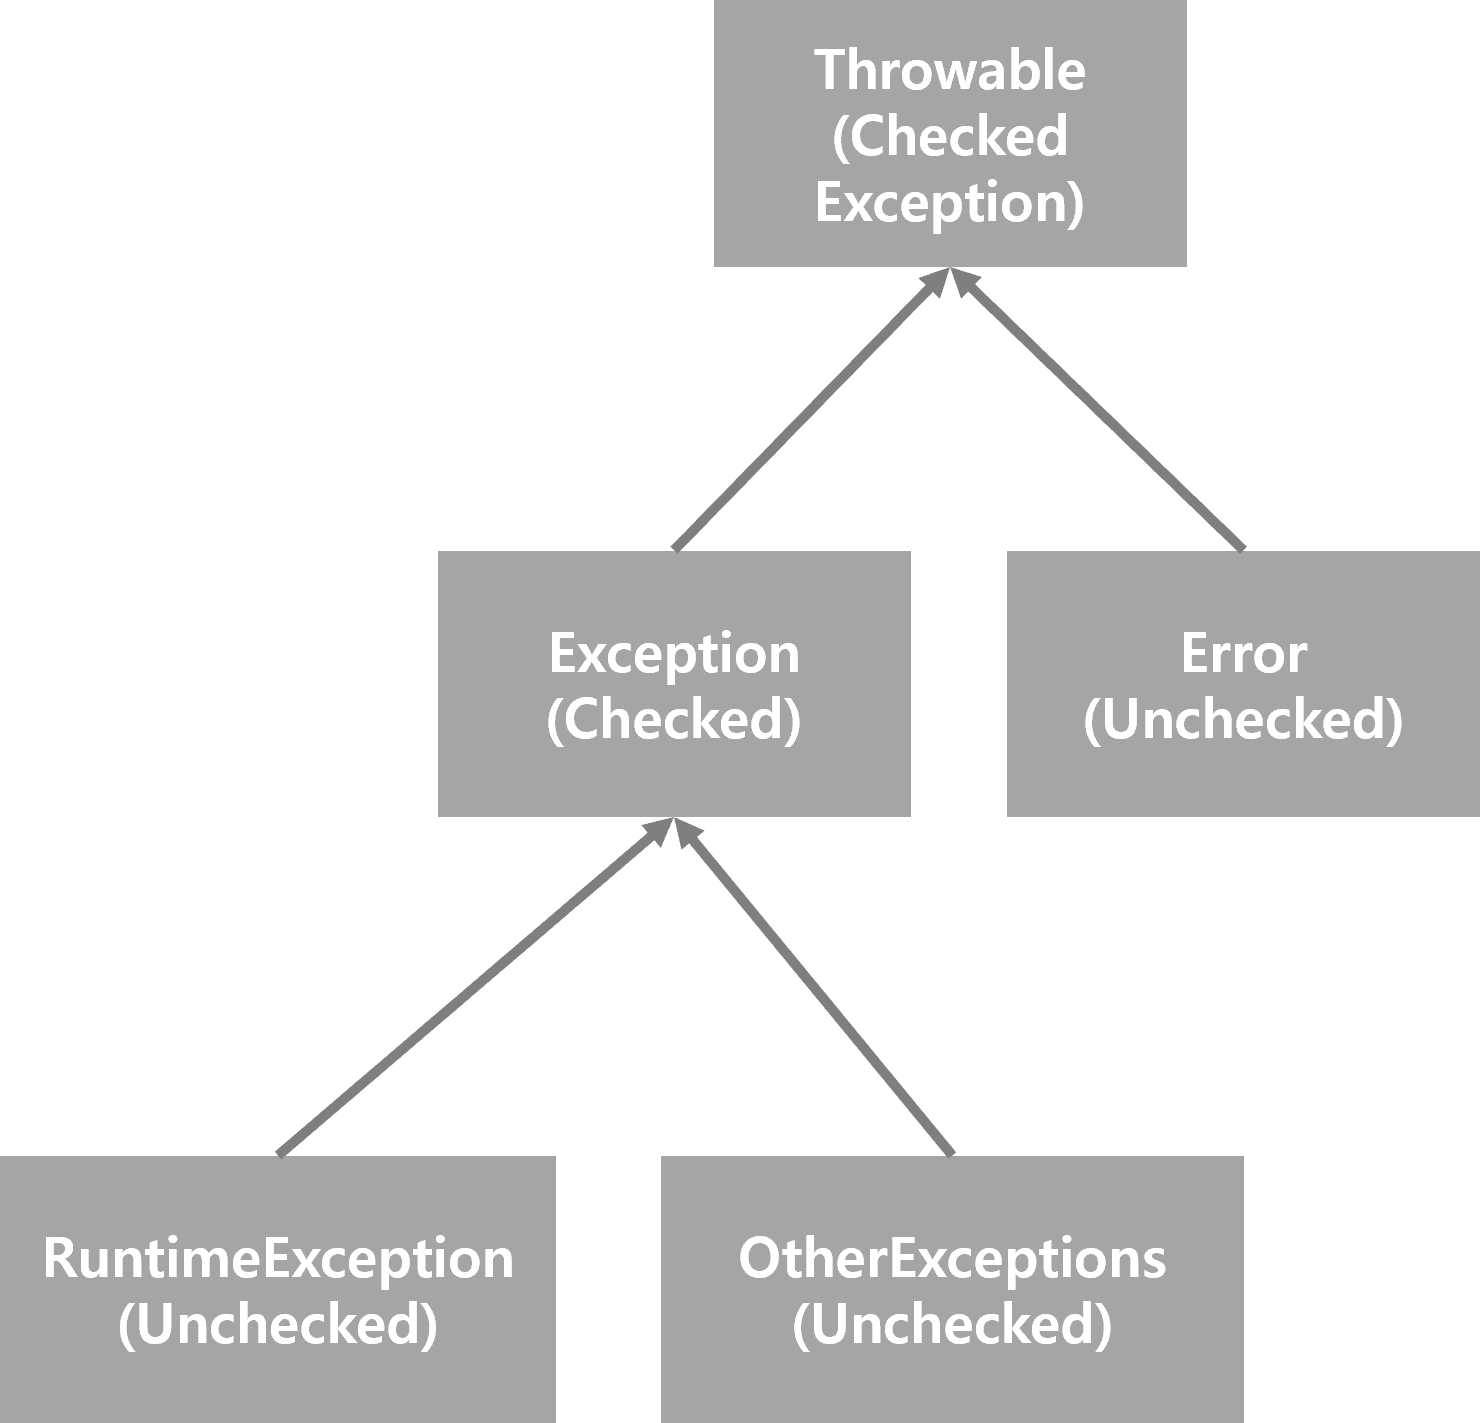
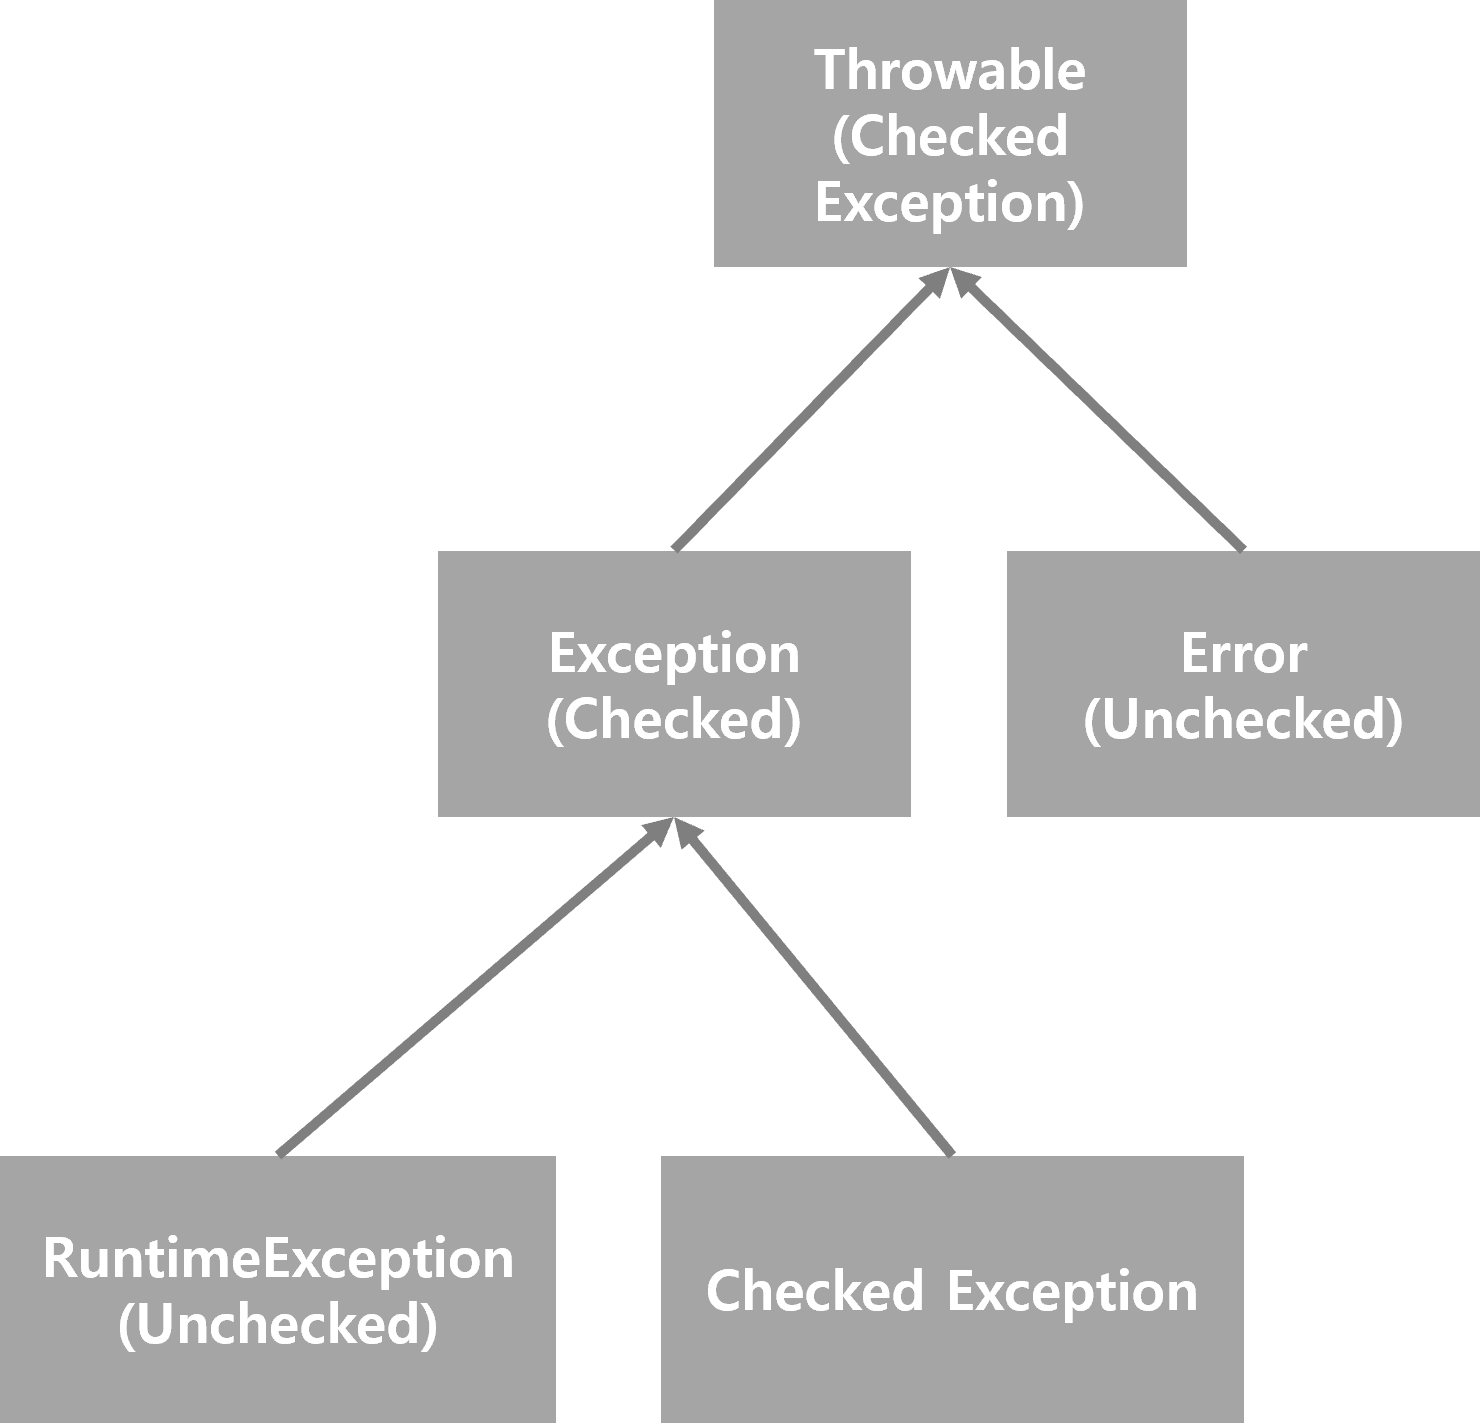
ITEM 70 - Checked Exception, Unchecked Exception 예제 및 설명, 그림 수정

Changed region(s): [[0.4662, 0.8658, 0.8081, 0.9585]]

diff --git a/ITEM-70-복구할-수-있는-상황에는-검사-예외를,-프로그래밍-오류에는-런타임-예외를-사용하라.md b/ITEM-70-복구할-수-있는-상황에는-검사-예외를,-프로그래밍-오류에는-런타임-예외를-사용하라.md
@@ -1,10 +1,11 @@
-# Item 70. 복구할 수 있는 상황에는 검사 예외를, 프로그래밍 오류에는 런타임 예외를 사용하라
-
-> 개인적으로 자바 문법에서 예외 처리에 대해서 가장 취약한 편이다 ㅠㅠ 기본기가 가끔씩 부족하다고 스스로 가끔 느끼는 편이었는데, 이번 기회에 예외처리에 관해서 확실하게 정리하고 간다는 점에서 다행이라는 생각이 든다.<br>
+# ITEM 70. 복구할 수 있는 상황에는 검사 예외를, 프로그래밍 오류에는 런타임 예외를 사용하라
 
 <br>
 
 ## 참고한 자료들
+
+- [한달한권 - 이펙티브 자바](https://zero-base.co.kr/category_dev_camp/java_1book)
+  - 매우 좋은 강의다!! 바쁘다는 핑계로 안듣고 있는 챕터가 꽤 있다. 시간 내서 다 들어야지. 
 
 - [hbase.tistory.com/115](https://hbase.tistory.com/115)
 - [docs.oracle.com - RuntimeException](https://docs.oracle.com/javase/7/docs/api/java/lang/RuntimeException.html)
@@ -31,18 +32,132 @@
 
 <br>
 
-- `Checked Exception`
-  - 반드시 코드에서 처리해야 하는 예외다.
-  - Checked Exception 은 try ~ cactch 로 예외처리를 하거나 throw 구문으로 상위 메서드에게 예외를 throw 해야 한다.
-  - Checked Exception 을 처리하지 않으면 자바 컴파일러가 컴파일 단계에서 컴파일에러를 발생시켜 예외에 대한 처리를 하게끔 유도한다.
-  - RutimeException 및 Exception 을 상속받은 기타 클래스들은 대부분 Checked Exception 은 아니다.
-  - 쉽게 설명하면, 직접 작성한 메서드에 `throws Exception` 을 명시했다면, 해당 메서드를 호출 하는 caller 측에서는 `try~catch`, `throw` 등의 처리를 해줘야 한다. `try~catch`, `throw` 등의 처리를 하지 않으면 컴파일 에러가 발생한다.
-  - 예외 처리를 컴파일 레벨에서 강제하기 위해 사용되기도 한다.
-- `Unchecked Exception`
-  - 컴파일 타임에 체크되지 않는 다소 느슨한 예외다.
-  - try~catch, throw 로 예외 처리를 별도로 하지 않더라도 컴파일 상에는 문제가 되지 않는다.
-  - 예를 들면, `RuntimeException` 을 상속받은 `NullPointerException` , `IndexOutOfBoundException` 등과 같은  클래스가 있다.
-  - 즉, 직접 작성한 메서드에 `throws new RuntimeException()` 을 명시했다면, 해당 메서드를 호출 하는 caller 측에서는 try~catch, throw 등의 처리를 꼭 해주지 않아도 컴파일 에러가 발생하지 않는다.
+### Checked Exception
+
+- 반드시 코드에서 처리해야 하는 예외다. 명시적으로 예외처리를 해야 한다.
+- Checked Exception 은 `try ~ catch` 로 예외를 처리하거나, `throw` 하지 않으면,  컴파일 에러가 발생한다.
+- Checked Exception 은 Transaction이 Rollback 된다.
+  - `Checked Exception` 은 해당 `Exception` 이 `throw` 된 것을 `try ~ catch` 로 처리하면 rollback은 이뤄지지 않는다.<br>
+  - 말로 설명하니 이상하다. 코드는 역시 코드로 배우는게 맞기는 할때가 있는가보다. 문서 최 하단 부에 Transaction 예제도 정리해놓을 예정이다.
+- ex) `FileNotFoundException` 
+- 예외 처리를 컴파일 레벨에서 강제하기 위해 사용되기도 한다.
+- RutimeException 및 Exception 을 상속받은 기타 클래스들은 대부분 Checked Exception 은 아니다.
+
+코드를 말로 설명하는 것은 역시 재미가 없고, 외계어 같다. 코드로 예를 들어 정리해봐야 겠다.<br>
+
+<br>
+
+**예제 1) Checked Exception 을 던지는 메서드를 그냥 사용하는 경우** <br>
+
+예를 들어 아래와 같은 코드가 있다고 해보자. `Checked Exception` 타입인 `Exception` 을 상속받아 확장한 클래스 `HelloCheckedException` 이 있다. <br>
+
+그리고 `helloKorea(String countryCode)` 라는 메서드에서는 인자 값 `String countryCode` 가 "KR" 이 아닐 경우 `HelloCheckedException` 이라는 예외를 던지고 있다.<br>
+
+![.](./img/ITEM70/CHECKED_EXCEPTION_1.png)
+
+위 코드에서 `test1`  이라는 메서드에서는 `helloKorea("KR")` 로 메서드를 호출하고 있다. 그런데, 예외가 발생하지 않을 수도 있는 경우에서 예외를 추가하도록 컴파일 레벨에서 미리 강제하고 있다.<br>
+
+<br>
+
+**예제 2) `Checked Exception` 이 발생하는 메서드를 한단계 감싸고, 해당 메서드에서 try/catch 처리를 해서 호출해보기**<br>
+
+예외를 던지는 메서드인 `helloKorea(String countryCode)` 메서드를 `caller1()` 라는 메서드에서 호출하도록 구조를 바꿨다. 그리고 `caller1()` 메서드는 메서드 `test2()` 에서 try/catch 블록 없이 그냥 호출해도 **"컴파일 에러"**가 발생하지 않는다.<br>
+
+![.](./img/ITEM70/CHECKED_EXCEPTION_2.png)
+
+<br>
+
+**예제3) try/catch 처리를 한 경우 다음 라인을 수행하는지 확인**<br>
+
+이번에는 Checked Exception 을 내는 예외를 감싼 메서드`caller2()` 에서 예외가 발생했을 때 그 다음 라인을 수행하는지 확인해보자. Checked Exception 을 발생시켜도, 해당 예외 라인을 try/catch 처리를 하면 다음라인으로 계속 진행할 수 있다.
+
+![.](./img/ITEM70/CHECKED_EXCEPTION_3.png)
+
+<br>
+
+출력결과<br>
+
+출력결과는 아래와 같다. 예외가 발생한 곳의 예외 메시지와 catch 구문에 해둔 예외 처리시 동작을 수행하고 그다음 라인 처리를 수행을 이어서 수행한다.
+
+![.](./img/ITEM70/CHECKED_EXCEPTION_4.png)
+
+<br>
+
+### UnChecked Exception
+
+- 명시적인 예외처리가 강제되는 `Exception` 은 아니다.
+- 컴파일 타임에 체크되지 않는 다소 느슨한 예외다.
+- try/catch, throw 등으로 예외 처리를 별도로 하지 않더라도 컴파일 상에는 문제가 되지 않는다.
+- 런타임시에 에러 스택트레이스 출력 및 별도의 프로그래밍 처리로 에러가 발생했음을 감지할 수 있다.
+
+- ex) `RuntimeException`, `NullPointerException`<br>
+
+역시 한국말로 어떻게 설명해보려 했지만, 조금 더 설명을 추가할 수록 이상한 말이 되어버려서 예제로 정리하기로 했다.<br>
+
+<br>
+
+**예제 1) RuntimeException 을 throw 하는 메서드를 try/catch 없이 그냥 호출해보는 예제**<br>
+
+코드는 아래와 같이 작성했다. 메서드 `test1()` 에서 메서드 `helloMessage("US")` 를 별도의 try/catch 에서 호출하지 않았음에도 컴파일에러가 발생하지 않았다. 출력결과 역시 정상이다. 
+
+![.](./img/ITEM70/UNCHECKED_EXCEPTION_1.png)
+
+<br>
+
+출력결과
+
+```plain
+안녕하세요
+```
+
+<br>
+
+**예제 2) RuntimeException 을 내는 메서드를 try/catch 블록으로 감싸 처리하는 예**<br>
+
+try/catch 로 예외가 발생하는 라인을 감싸고 그 다음 라인을 수행하는지 명시적으로 확인하기 위해 `System.out.println` 이용해 0, 1, 2 를 찍어봤다. 출력구문을 보고 동작을 확인하자.
+
+![.](./img/ITEM70/UNCHECKED_EXCEPTION_2.png)
+
+<br>
+
+출력결과
+
+![.](./img/ITEM70/UNCHECKED_EXCEPTION_2_1.png)
+
+출력결과를 자세히 보면 `e.printStackTrace()` 로 출력한 에러를 출력해주고, try/catch 블록의 그 다음 라인을 순차적으로 실행하고 있는 것을 확인할 수 있다.(`(2)` 가 콘솔에 출력됐다.)<br>
+
+즉, 에러가 난 곳에서 탈출하지 않고, 에러를 출력하거나 catch 구문에 지정한 메서드를 수행하도록 하고, try/catch 다음 라인을 계속해서 순차적으로 실행한다.<br>
+
+<br>
+
+### Checked Exception, UnChecked Exception 정리
+
+**Checked Exception**<br>
+
+- Checked Exception 은 컴파일 타임에 try/catch 블록으로 처리를 명시적으로 하지 않으면 컴파일 에러를 낸다. (또는 throw 로 예외를 전파하지 않아도 컴파일 에러를 낸다.) 대표적으로 `FileNotFoundException` 이 있다.
+- Checked Exception 이 발생하면 Transaction 은 rollback 된다.
+  - 단, throw 된 Checked Exception 을 별도의 try/catch 로 처리를 하면, rollback 은 이뤄지지 않는다.
+- ex) `FileNotFoundException` 
+
+<br>
+
+**Unchecked Exception**<br>
+
+- Unchecked Exception 은 컴파일 타임에 try/catch 블록으로 처리를 명시적으로 하지 않아도 컴파일 에러는 발생하지 않는다. 대표적으로 `NullPointerException`, `RuntimeException` 이 있다.
+-  Unchecked Exception 이 발생하더라도 Transaction 은 rollback 되지 않는다.
+- ex) `NullPointerException`, `RuntimeException`
+
+<br>
+
+참고한 자료 : [한달한권 - 이펙티브 자바](https://zero-base.co.kr/category_dev_camp/java_1book)<br>
+
+인터넷에 정확하게 설명하는 곳이 어디인지 확신이 들지 않아서, [한달한권 - 이펙티브 자바](https://zero-base.co.kr/category_dev_camp/java_1book) 의 내용을 듣고 정리. 
+
+![.](./img/ITEM70/CHECKED-VS-UNCHECKED.png)
+
+조금 더 내용을 찾아보면서 공식자료를 구해서 정리할까 했는데, 강의 내용이 너무 깔끔하고 직관적이라 더 정리할 필요를 못느꼈다. <br>
+
+그래도 나머지 공부 좀 해야할 듯 싶기는 하다.<br>
 
 <br>
 
@@ -53,6 +168,12 @@
 - Checked Exception 을 사용하면 호출자(caller)가 그 예외를 catch 로 잡아서 처리하거나 더 바깥으로 처리하게 강제된다.
 - 이렇게 하면, API 사용자에게 검사예외(Checked Exception)을 던저주어 그 상황에서 적당한 처리를 하게끔 요구하는 효과를 낸다.
 - 예외를 잡기만 하고 별다른 조치를 취하지 않게되는 경우도 있을 수 있다. 하지만, 이것은 좋지 않은 습관이다. (아이템 77)
+- 개인적인 의견
+  - 책의 설명이 코드로 봐야할 것들을 말로 길게 설명하고 있기에 이해가 다소 쉽지 않다. 그래서 개인적인 의견을 적어봤다.
+  - 개인적으로는, `CheckedException` 은 비지니스 로직을 개발하는 개발자라면, 복구가 가능한 경우에 한해서 사용하는 것이 올바른 사용법인 것 같다는 생각이 들었다.
+  -  예를 들면, 부서 A에서는 새로운 예외를 정의 후, 네트워크 에러로 인한 결제 실패시, 네트워크 에러로 인한 결제 실패에 대한 커스텀 Checked Exception 을 throw 하기로 했지만, 다른 부서B 에서는 미리 네트워크 에러로 인한 예외가 추가되었다는 공지를 전달받지 않았다고 해보자.<br>
+    예외 타입이 추가된 것 역시 가이드 문서로 추가되어 있지 않은 상태다. 이렇게 되면 해당 다른 부서에서는 소스를 update 받자 마자 Checked Exception 을 처리하던 코드가 갑자기 계속해서 컴파일 에러가 발생하게 될 수 있다. <br>
+
 
 <br>
 
@@ -68,7 +189,11 @@
 
 <br>
 
-## Checked vs Unchecked ??
+## Checked vs Unchecked 둘중 뭘 쓸지 고민이라면?
+
+> TODO: 책의 내용을 그대로 정리했는데, 책의 내용이 다소 너무 길어서 조금 더 요약해서 예를 든 설명으로 따로 정리할 예정이다.<br>
+
+<br>
 
 내가 설계하는 메서드/API 가 Checked, Unchecked 둘 중 어떤 예외를 발생시킬지는 복구 가능한지 여부를 따라서 결정하면 된다.<br>
 
@@ -107,6 +232,30 @@
 **`Throwable` 클래스를 직접 사용하는 경우의 단점**<br>
 
 `Throwable` 클래스는 대부분 오류 메시지 포맷을 상세히 기술하지 않는다. 이것은 JVM이나 릴리즈에 따라 포맷이 달라질 수 있다는 의미다. 만약 예외에 대한 메서드가 구현되어 있지 않다면, 프로그래머들은 오류 메시지를 파싱해서 예외 정보를 추출해내야 하는데, `Throwable`을 그대로 구현한 예외는 대부분 오류 메시지 포맷이 상세히 기술되어 있지 않기에 JVM 이나 릴리즈에 따라 메시지 포맷이 달라진다. 따라서 이런 예외를 핸들링 하는 코드들이 애플리케이션 내에 있다면  코드가 깨지기 쉽고 다른 환경에서 동작하지 않을 가능성이 높아진다.<br>
+
+<br>
+
+## 테스트코드 1)  Transaction 내에서의 Checked Exception
+
+요즘 인간적으로 시간이 너무 부족해서 이것 까지 바로 정리는 못할 것 같다. 물리적으로 시간자체가 부족해서 뭘 할래야 할수가 없는 상황이다... 예제를 이번 주 중으로 추가하겠지만, 이번주 내에 추가하지 못하면 차차주 내에라도 정리할 예정!!! <br>
+
+요즘 일이 좀 많이 힘들기도 하고 버겁다. 그래서 개인 공부에 신경을 제대로 쓰지 못하고 있다. 최근에는 뭘 만들라 그러는데 이해 당사자들은 아직 뭘 만들지도 모르는 상태다. 기획도 안나와 있다. 무엇을, 언제까지, 어떻게, 어디까지 만들지에 대한 결정없이 4월 2주차 까지 뭘 만들라고 그런다. 그런데 그게 어떤건지 나도 모르고, 이해당사자는 하나도 모르는 상태다. 이대로 상용가도 되나 싶은 생각이 드는데 1주일 내로 만들자 그런다. 도저히 뭘 하자는건지 모르겠어서 짜증나고 분하더라...<br>
+
+너무 황당해서... 그래서 만들려는게 뭔지 하나 하나 질문하니, 본인들도 모른다. 정책서도 안나왔다. 본인들도 뭘 만드는지 모른는데 날 왜 시키는 거지? 하고 생각이 자꾸 든다. 거기다 난 주식이 뭔지 모르는 사람이다.... 정해진 시간 안에 이번 버전은 어디까지 만들어져 있어야 한다는 간단한 문서 자체도 없다. 그냥 아무때나 원하는 대로 멋대로 상용에 배포하고 서버 끄고 수정하자는 식이다. 그럼 또 난 매번 밤새야 한다. 본인들은 어쩌다 한번 밤새지만, 나는 쉬는 때가 없다.<br>
+
+누군가의 또 진취적인 감정적인 판단으로 단순하게 명령하달 시켜서 이렇게 되는 건가 싶기도 하다는 생각은 들어서 참고 있기는 한데, 진짜 이건 좀 횡포가 아닌가 싶을 정도로 업무 폭력이지 않나 싶다. 아무리 뭘 좀 몰라도 좀 물어보고 명령하달을 내리던가... <br>
+
+스트레스가 극에 달해서 100원짜리 크기의 혓바늘이 나서 터져서 피가 났던게 덧나서 주말동안 거의 아무것도 먹지 못했다... 아무리 화가 나도 30프로는 사회적인간인지라 속은 썩어도, 겉으로는 웃으면서 이야기 하긴 하는데, 이게 속병이 나나 보다 싶다.<br>
+
+이런 상황이 입사 초기부터 자주 있어왔다. 입사 초반에 만들어진 레거시 코드도 벤더사 가격 정책 변경으로 ID 체계가 바뀌는데, 온프레미스로 데이터를 확인해보는 것 없이 상용으로 직행해서 개발하자고 우겨서 어마 어마하게 고생하면서 만들었었다. 그렇게 멋대로 생각나는 대로 할꺼면 지들이 하던가, 그렇게 말도 안되는 오더를 왜 억지로 나한테 하라고 하는지... 무슨 자신감들인지 모르겠다. 울고 싶을 정도였다. 적어도 베타에서 테스트하고 나서 가자고 하지 왜 나한테 이러나 싶었다. 그 당시를 떠올리면 거의 모든 데이터 필드를 일일이 수작업으로 상용 서버에 로그로 남겨서 일일이 노가다로 확인해봐야 하는 정도로 암울했었고, 거기다가 외국 벤더사에 영어로 일일이 직접 문의해서 확인해야 하는 개발환경 문제도 있어서 직접 해당 외국 기업에 문의하고 난리도 아니였다. 매일 매일이 밤샘근무였다..<br>
+
+개발 중간에 데이터를 페이스 분리하는 것도 충분히 생각해냈었는데, 이야기 꺼내면, 본인들이 똑똑하다고 생각해서 안되는거라 우겨서 아직 까지도 상용에서 `고~~대로` 작업중이긴 한데, 도대체 본인들께서 언제까지 얼마나 똑똑하신지도 좀 봐야 할듯 싶다. 난 이미 몸도 마음도 지쳐서 더 못버틸것 같은데 1주일씩 연장해서 겨우 겨우 일하는 중이다... 1주일 버티는 것도 요즘은 힘에 매우 많이 부친다. 뭐 이런 인간들이 있나 싶다...<br>
+
+<br>
+
+## 테스트 코드 2) Transaction 내에서의 Unchecked Exception 
+
+이것 역시 위의 이유로 인해 나중에 정리 예정이다.<br>
 
 <br>
 
